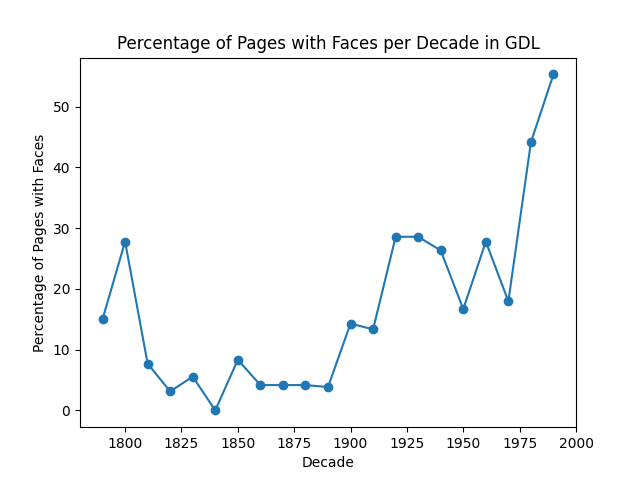
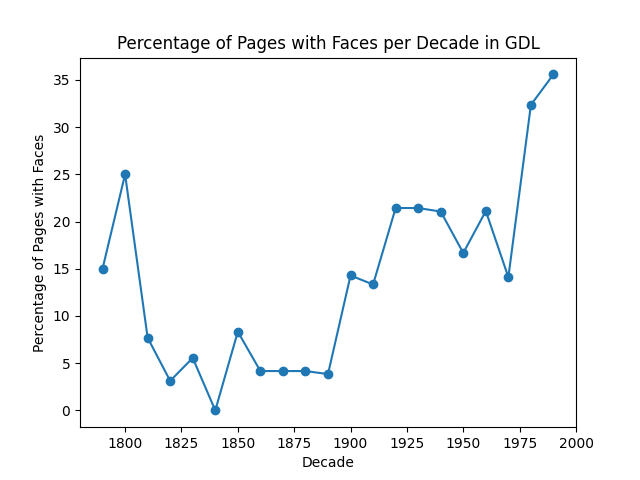
Adding in/ folders & README update

diff --git a/Assignment_4/src/main.py b/Assignment_4/src/main.py
@@ -70,6 +70,7 @@ def process_images(dataset_path, mtcnn):
     """
     results = defaultdict(lambda: defaultdict(int))
     page_counts = defaultdict(lambda: defaultdict(int))
+    pages_with_faces = defaultdict(lambda: defaultdict(int))
 
     for root, _, files in os.walk(dataset_path):
         for file in tqdm(files, desc="Processing images"):
@@ -80,16 +81,19 @@ def process_images(dataset_path, mtcnn):
                 decade = (int(year) // 10) * 10
                 results[newspaper][decade] += num_faces
                 page_counts[newspaper][decade] += 1
+                if num_faces > 0:
+                    pages_with_faces[newspaper][decade] += 1
 
-    return results, page_counts
+    return results, page_counts, pages_with_faces
 
-def generate_outputs(results, page_counts, output_dir):
+def generate_outputs(results, page_counts, pages_with_faces, output_dir):
     """
     Generates CSV files and plots for the face detection results.
 
     Parameters:
         results (dict): The face detection results organized by newspaper and decade.
         page_counts (dict): Page count for each newspaper and decade.
+        pages_with_faces (dict): Page count with at least one face for each newspaper and decade.
         output_dir (str): Output directory to save results.
     """
     os.makedirs(output_dir, exist_ok=True)
@@ -98,7 +102,7 @@ def generate_outputs(results, page_counts, output_dir):
         df = pd.DataFrame({
             "Decade": list(decades.keys()),
             "Total Faces": list(decades.values()),
-            "Percentage Pages with Faces": [(faces / page_counts[newspaper][decade]) * 100 for decade, faces in decades.items()]
+            "Percentage Pages with Faces": [(pages_with_faces[newspaper][decade] / page_counts[newspaper][decade]) * 100 for decade in decades.keys()]
         })
         df.sort_values("Decade", inplace=True)
 
@@ -120,8 +124,8 @@ def main():
     args = parse_arguments()
 
     mtcnn = init_mtcnn()
-    results, page_counts = process_images(args.dataset_path, mtcnn)
-    generate_outputs(results, page_counts, args.output_dir)
+    results, page_counts, pages_with_faces = process_images(args.dataset_path, mtcnn)
+    generate_outputs(results, page_counts, pages_with_faces, args.output_dir)
     print(f"Face detection completed. Results are saved in {args.output_dir}")
 
 if __name__ == "__main__":

diff --git a/Assignment_4/README.md b/Assignment_4/README.md
@@ -79,10 +79,75 @@ These are the two args that can be passed:
 The outputs for the face detection analysis are presented below.  
 
 **Journal de Genève (JDG):**  
+| Decade | Total Faces | Percentage Pages with Faces |
+|--------|-------------|-----------------------------|
+| 1820   | 0           | 0.0%                        |
+| 1830   | 1           | 1.85%                       |
+| 1840   | 1           | 2.0%                        |
+| 1850   | 2           | 4.17%                       |
+| 1860   | 4           | 6.25%                       |
+| 1870   | 5           | 4.35%                       |
+| 1880   | 6           | 10.0%                       |
+| 1890   | 1           | 1.92%                       |
+| 1900   | 11          | 16.67%                      |
+| 1910   | 6           | 8.0%                        |
+| 1920   | 21          | 10.0%                       |
+| 1930   | 32          | 19.23%                      |
+| 1940   | 13          | 10.87%                      |
+| 1950   | 49          | 25.0%                       |
+| 1960   | 44          | 18.67%                      |
+| 1970   | 48          | 22.04%                      |
+| 1980   | 143         | 34.64%                      |
+| 1990   | 190         | 29.01%                      |
+
+The JDG newspaper displays a gradual increase in the percentage of pages with faces from the 1820s to the 1980s. Notably, there are low percentages of pages with faces in the early decades (i.e., 0% in the 1820s, 1.85% in the 1830s), but then from the 1900s onward there is a steady increase. This  The 1950s and the 1980s stand out in the later years with 
+
+with significant jumps in the 1950s (25.0%) and the 1980s (34.64%), and a slight decrease in the 1990s with 29.01% of pages containing faces.
 
 **Gazette de Lausanne (GDL):**  
-  
+| Decade | Total Faces | Percentage Pages with Faces |
+|--------|-------------|-----------------------------|
+| 1790   | 3           | 15.0%                       |
+| 1800   | 10          | 27.78%                      |
+| 1810   | 2           | 7.69%                       |
+| 1820   | 1           | 3.13%                       |
+| 1830   | 2           | 5.56%                       |
+| 1840   | 0           | 0.0%                        |
+| 1850   | 2           | 8.33%                       |
+| 1860   | 1           | 4.17%                       |
+| 1870   | 1           | 4.17%                       |
+| 1880   | 1           | 4.17%                       |
+| 1890   | 1           | 3.85%                       |
+| 1900   | 4           | 14.29%                      |
+| 1910   | 4           | 13.33%                      |
+| 1920   | 8           | 28.57%                      |
+| 1930   | 8           | 28.57%                      |
+| 1940   | 10          | 26.32%                      |
+| 1950   | 8           | 16.67%                      |
+| 1960   | 25          | 27.78%                      |
+| 1970   | 14          | 17.95%                      |
+| 1980   | 60          | 44.12%                      |
+| 1990   | 115         | 55.29%                      |  
+
+
 **Impartial (IMP):**  
+| Decade | Total Faces | Percentage Pages with Faces |
+|--------|-------------|-----------------------------|
+| 1880   | 1           | 2.94%                       |
+| 1890   | 17          | 32.69%                      |
+| 1900   | 25          | 36.76%                      |
+| 1910   | 27          | 51.92%                      |
+| 1920   | 46          | 71.88%                      |
+| 1930   | 31          | 57.41%                      |
+| 1940   | 24          | 42.86%                      |
+| 1950   | 105         | 111.70%                     |
+| 1960   | 175         | 121.53%                     |
+| 1970   | 202         | 101.0%                      |
+| 1980   | 343         | 163.33%                     |
+| 1990   | 210         | 103.96%                     |
+| 2000   | 657         | 304.17%                     |
+| 2010   | 699         | 371.81%                     |  
+
 
 ## Discussion of Limitations and Possible Steps for Improvement
 This script offers insights into ... However, there are also certain limitations present which should be taken into consideration.  
